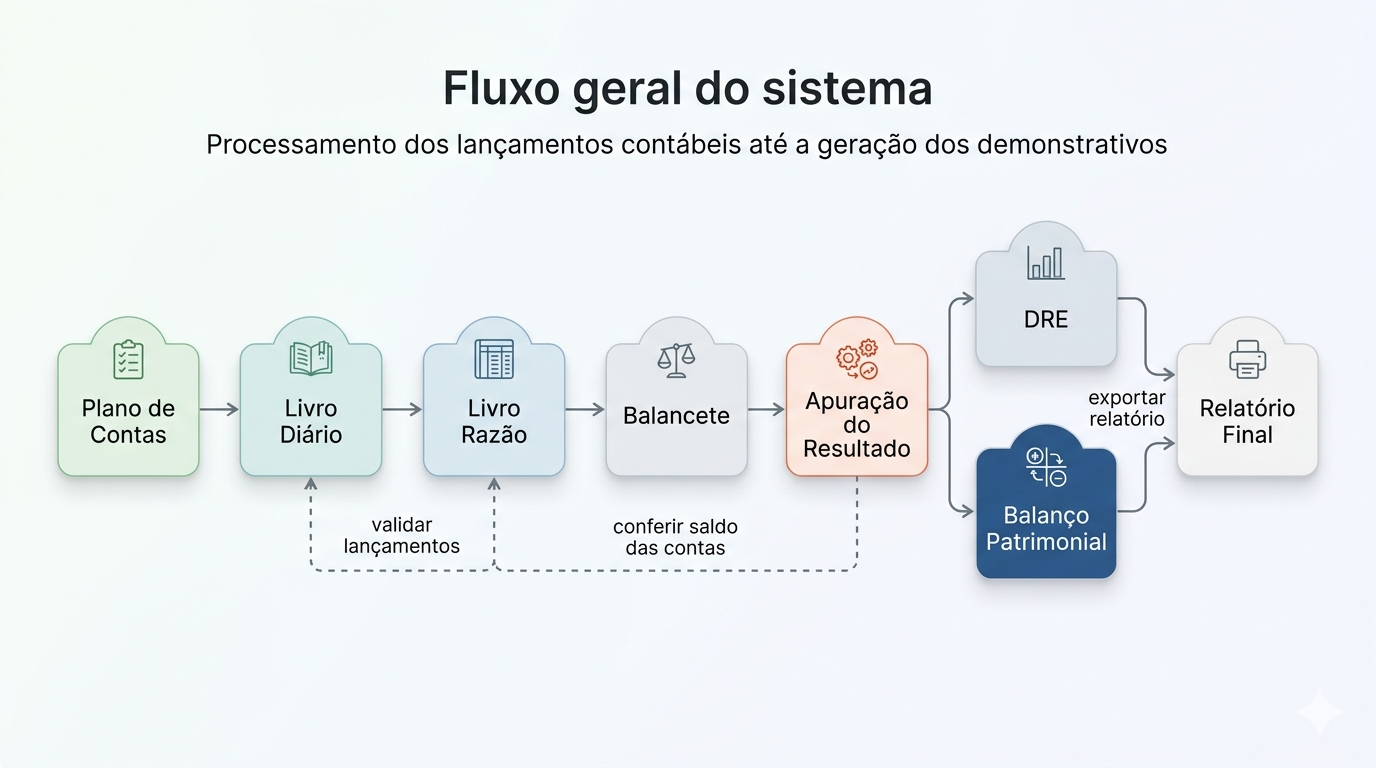
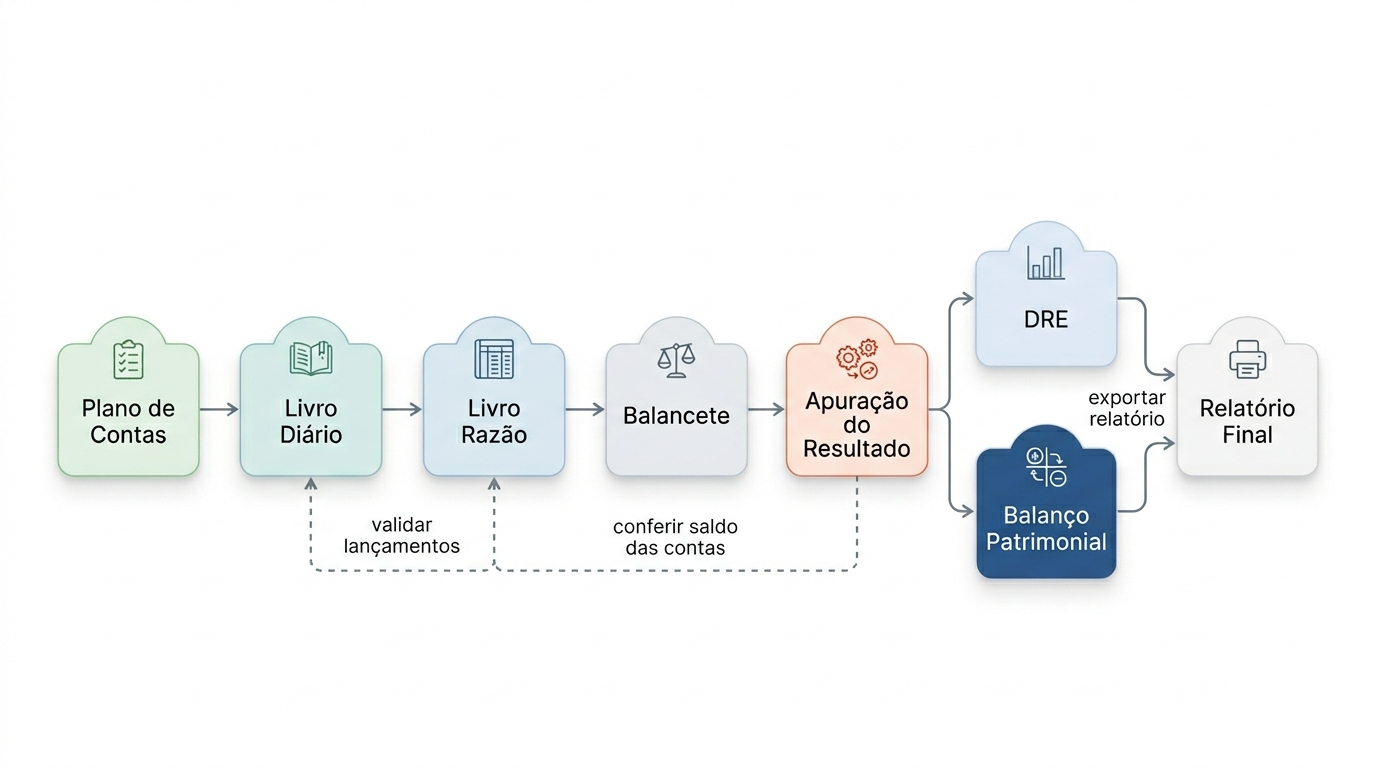
feat(ihc): add IHC overview page with Figma, prototypes and usability test stubs
- Replace fluxo-geral image with white-background version
- Move fluxo geral section to after Funcionalidades in homepage
- Create ihc/visao-geral.md with Figma link, prototyping and usability sections
- Add blank roteiro and relatorio de teste de usabilidade docs
- Update mkdocs.yml nav and homepage IHC link

Changed region(s): [[0.1562, 0.0938, 0.8438, 0.2188]]

diff --git a/docs/ihc/visao-geral.md b/docs/ihc/visao-geral.md
@@ -1,0 +1,63 @@
+# Visão Geral de IHC
+
+## Histórico de Versões
+
+| Versão | Data | Descrição | Autor |
+| :---: | :---: | :---: | :---: |
+| 1.0 | 28/05/2026 | Versão inicial do documento | Fernanda Pessoa |
+
+## Histórico de Revisões
+
+| Versão | Data | Revisor | Observação |
+| :---: | :---: | :---: | :---: |
+
+## Sumário
+
+1. [Introdução](#introdução)
+2. [Figma](#figma)
+3. [Prototipação](#prototipação)
+4. [Identidade Visual](#identidade-visual)
+5. [Testes de Usabilidade](#testes-de-usabilidade)
+
+---
+
+## Introdução
+
+A área de Interface Humano-Computador (IHC) do projeto abrange desde a definição da identidade visual até a validação da experiência de uso por meio de testes com usuários reais. O objetivo é garantir que o sistema seja intuitivo, acessível e coerente em todas as telas, atendendo ao perfil dos estudantes de Ciências Contábeis para quem foi projetado.
+
+---
+
+## Figma
+
+O projeto mantém um arquivo Figma bem estruturado, com as cores padrão do sistema, componentes reutilizáveis e fluxos navegacionais definidos. Ele serve como fonte de verdade para decisões de interface ao longo do desenvolvimento.
+
+**Link:** [Protótipo COIN'S — Figma](https://www.figma.com/design/Z3hfLoenhr73I3u5BRU5lP/COIN-S---Contabilidade-Integrada?node-id=40000778-20259&t=jaqeTyfCvmRHlX9C-1)
+
+---
+
+## Prototipação
+
+### Protótipo de baixa fidelidade
+
+Elaborado nas fases iniciais do projeto para validar a estrutura e a navegação das telas sem compromisso com estética. Permite iterar rapidamente sobre a disposição dos elementos e os fluxos principais antes de investir no detalhamento visual.
+
+### Protótipo de alta fidelidade
+
+Desenvolvido no Figma, representa fielmente a interface final do sistema — com paleta de cores, tipografia, ícones e comportamento dos componentes. O protótipo de alta fidelidade contempla os principais fluxos do sistema, como o registro de lançamentos, a apuração do resultado e a geração de demonstrativos contábeis.
+
+---
+
+## Identidade Visual
+
+A identidade visual do sistema está documentada separadamente e define a paleta de cores, o uso de componentes e as diretrizes de alinhamento com a identidade institucional da UFMS.
+
+**Documento:** [Especificação de Identidade Visual](identidade-visual.md)
+
+---
+
+## Testes de Usabilidade
+
+A cada semestre é conduzido um ciclo de testes de usabilidade com usuários representativos do público-alvo. Os testes seguem um roteiro estruturado e os resultados são consolidados em um relatório com achados, métricas e recomendações de melhoria.
+
+- **[Roteiro de Teste de Usabilidade](roteiro-teste-usabilidade.md)**
+- **[Relatório de Teste de Usabilidade](relatorio-teste-usabilidade.md)**

diff --git a/docs/ihc/relatorio-teste-usabilidade.md b/docs/ihc/relatorio-teste-usabilidade.md
@@ -1,0 +1,13 @@
+# Relatório de Teste de Usabilidade
+
+## Histórico de Versões
+
+| Versão | Data | Descrição | Autor |
+| :---: | :---: | :---: | :---: |
+
+## Histórico de Revisões
+
+| Versão | Data | Revisor | Observação |
+| :---: | :---: | :---: | :---: |
+
+---

diff --git a/docs/ihc/roteiro-teste-usabilidade.md b/docs/ihc/roteiro-teste-usabilidade.md
@@ -1,0 +1,13 @@
+# Roteiro de Teste de Usabilidade
+
+## Histórico de Versões
+
+| Versão | Data | Descrição | Autor |
+| :---: | :---: | :---: | :---: |
+
+## Histórico de Revisões
+
+| Versão | Data | Revisor | Observação |
+| :---: | :---: | :---: | :---: |
+
+---